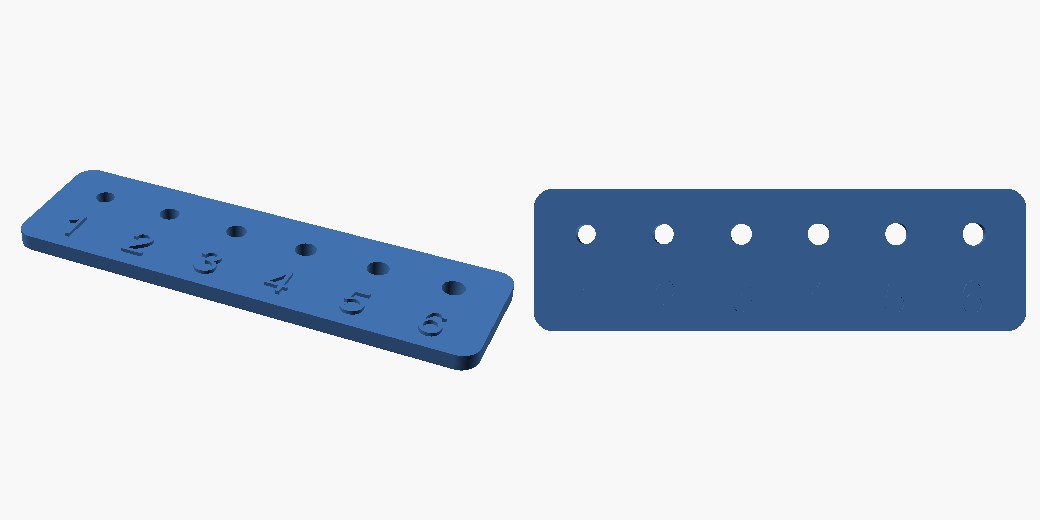
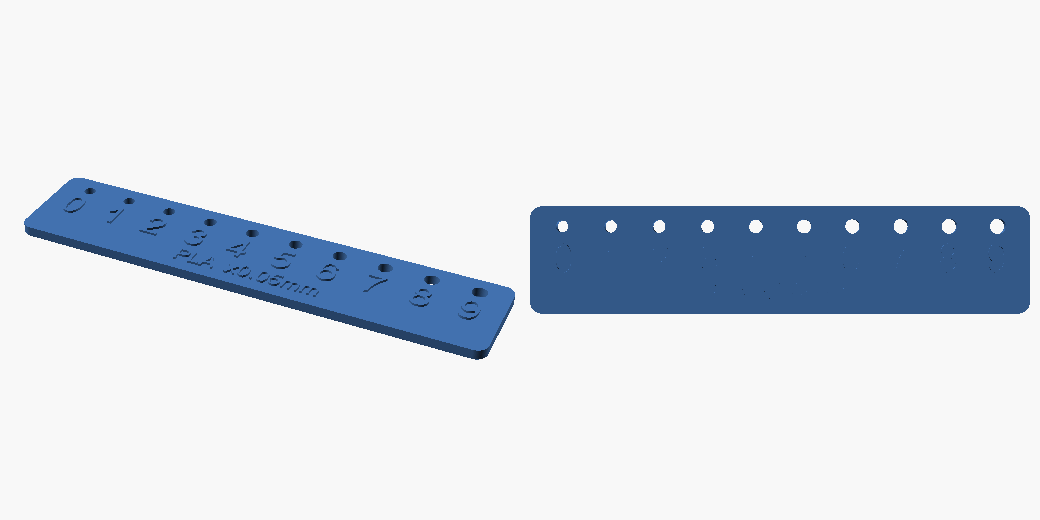
Правки по ревью: ложные утверждения в шпаргалке, диапазон калибровки
Три утверждения в skill/forge3d/references/build123d.md не соответствовали
реальному API и попали бы прямо в генерируемый агентом код:

- export_step возвращает bool, а не бросает RuntimeError. Из-за этого сбой
  записи STEP проходил молча в обеих моделях — теперь проверяются оба экспорта
- import_step отдаёт Solid для одного тела и Compound для нескольких;
  тела достаются через .solids()
- тела, касающиеся ровно гранью, сливаются в одно. Раздельными остаются
  тела с зазором — грабля переписана под то, что действительно проверено

fit_test: диапазон 0.05-0.30 не покрывал free-посадки (0.35 PLA / 0.45 PETG),
теперь 0.00-0.45 десятью отверстиями. font_size это кегль, а не высота глифа —
подписи были 5.4 мм со штрихом тоньше двух периметров, увеличены до 7.3 мм.
Компоновка выведена из параметров, материал подписан на детали и попадает
в имя файла, чтобы гребёнки разных пластиков не перезатирали друг друга.

Ещё: in_stock() задействовал висевшую без дела AVAILABLE, README больше
не утверждает, что TPU не поедет на A1 mini — поедет, AMS lite тут нет.

Changed region(s): [[0.0, 0.3077, 1.0, 0.7077], [0.6769, 0.4308, 0.7385, 0.4923]]

diff --git a/models/fit_test.py b/models/fit_test.py
@@ -1,11 +1,12 @@
 """Калибровочная гребёнка зазоров под винт M3.
 
-Печатается один раз на каждый пластик, чтобы заменить типовые зазоры в forge/spec.py
-на реальные. После печати вставить винт M3 в каждое отверстие и найти два:
-первое, куда винт входит с усилием руки (это snug), и первое, где он ходит
-свободно без люфта (это slip). Номер отверстия подписан рядом.
+Печатается по разу на каждый пластик, чтобы заменить типовые зазоры в forge/spec.py
+на реальные. После печати вставить винт M3 в каждое отверстие и найти два номера:
+где винт входит с усилием руки (это snug) и где ходит свободно без люфта (это slip).
+Полученные зазоры вписать в clearances нужного материала.
 
-Отверстие N имеет зазор STEP*N на сторону, то есть диаметр 3.0 + 2*STEP*N.
+Отверстие N имеет зазор STEP*N на сторону, то есть диаметр SCREW + 2*STEP*N.
+Диапазон покрывает все четыре посадки обоих пластиков: от press (0.00) до free (0.45).
 """
 from pathlib import Path
 
@@ -13,17 +14,34 @@ from build123d import *
 
 OUT = Path(__file__).resolve().parent.parent / "out"
 
+MAT = "PLA"          # печатается отдельно под каждый пластик, имя файла это учитывает
 SCREW = 3.0          # номинальный диаметр винта M3
-COUNT = 6            # количество отверстий
+COUNT = 10           # отверстий: зазоры 0.00 ... 0.45
 STEP = 0.05          # шаг зазора на сторону, мм
 PITCH = 12.0         # расстояние между отверстиями
 PLATE_H = 3.0        # толщина пластины
-MARGIN = 8.0         # поле по краям
-LABEL_H = 7.5        # высота цифры (мельче 7 мм штрих не пропечатывается соплом 0.4)
-LABEL_DEPTH = 0.6    # на сколько цифра выступает
+MARGIN = 8.0         # поле слева и справа
+LABEL_H = 10.0       # кегль цифры; глиф выходит ~7.3 мм, штрих >= 0.8 мм = 2 периметра
+MAT_LABEL_H = 6.0    # кегль подписи материала
+EMBOSS = 0.6         # на сколько выступают надписи (3 слоя по 0.2)
+EDGE = 3.0           # поле сверху и снизу
+ROW_GAP = 2.5        # просвет между рядами
 
+# высота глифа у дефолтного шрифта — примерно 73% кегля, замерено
+GLYPH = 0.73
+HOLE_R_MAX = (SCREW + 2 * STEP * (COUNT - 1)) / 2
+
+# компоновка по вертикали снизу вверх: поле, материал, ряд цифр, ряд отверстий, поле
+mat_h = MAT_LABEL_H * GLYPH
+label_h = LABEL_H * GLYPH
 L = PITCH * (COUNT - 1) + 2 * MARGIN
-W = 22.0
+W = 2 * EDGE + mat_h + ROW_GAP + label_h + ROW_GAP + 2 * HOLE_R_MAX
+
+y_bottom = -W / 2
+y_mat = y_bottom + EDGE + mat_h / 2
+y_label = y_bottom + EDGE + mat_h + ROW_GAP + label_h / 2
+y_hole = W / 2 - EDGE - HOLE_R_MAX
+x0 = -PITCH * (COUNT - 1) / 2
 
 with BuildPart() as part:
     with BuildSketch() as plan:
@@ -32,29 +50,31 @@ with BuildPart() as part:
     extrude(amount=PLATE_H)
 
     # ряд отверстий с нарастающим зазором
-    x0 = -PITCH * (COUNT - 1) / 2
     for i in range(COUNT):
-        gap = STEP * (i + 1)
-        with Locations((x0 + i * PITCH, 4.0)):
-            Hole(radius=(SCREW + 2 * gap) / 2)
+        with Locations((x0 + i * PITCH, y_hole)):
+            Hole(radius=(SCREW + 2 * STEP * i) / 2)
 
-    # подписи: номер отверстия, по нему считается зазор
-    with BuildSketch(Plane.XY.offset(PLATE_H)) as labels:
+    # номер отверстия и подпись материала — выступающими, чтобы читались на любом цвете
+    with BuildSketch(Plane.XY.offset(PLATE_H)):
         for i in range(COUNT):
-            with Locations((x0 + i * PITCH, -6.0)):
-                Text(str(i + 1), font_size=LABEL_H)
-    extrude(amount=LABEL_DEPTH)
+            with Locations((x0 + i * PITCH, y_label)):
+                Text(str(i), font_size=LABEL_H)
+        with Locations((0, y_mat)):
+            Text(f"{MAT}  x0.05mm", font_size=MAT_LABEL_H)
+    extrude(amount=EMBOSS)
 
     # фаска по нижнему контуру против elephant foot
     chamfer(part.faces().sort_by(Axis.Z)[0].edges(), length=0.5)
 
 OUT.mkdir(parents=True, exist_ok=True)
-stl = OUT / "fit_test.stl"
-if not export_stl(part.part, str(stl)):
-    raise RuntimeError(f"не удалось записать {stl}")
-export_step(part.part, str(OUT / "fit_test.step"))
+stem = f"fit_test_{MAT.lower().replace('-', '_')}"
+for path, writer in ((OUT / f"{stem}.stl", export_stl), (OUT / f"{stem}.step", export_step)):
+    if not writer(part.part, str(path)):
+        raise RuntimeError(f"не удалось записать {path}")
 
-print(f"пластина   {L:.0f} x {W:.0f} x {PLATE_H:.0f} мм")
+bb = part.part.bounding_box()
+print(f"материал   {MAT}")
+print(f"пластина   {bb.size.X:.1f} x {bb.size.Y:.1f} x {bb.size.Z:.1f} мм")
+print(f"файл       out/{stem}.stl")
 for i in range(COUNT):
-    gap = STEP * (i + 1)
-    print(f"  {i + 1}: зазор {gap:.2f} на сторону -> отверстие {SCREW + 2 * gap:.2f} мм")
+    print(f"  {i}: зазор {STEP * i:.2f} на сторону -> отверстие {SCREW + 2 * STEP * i:.2f} мм")

diff --git a/models/smoke_test.py b/models/smoke_test.py
@@ -27,10 +27,9 @@ with BuildPart() as part:
     chamfer(part.faces().sort_by(Axis.Z)[-1].edges(), length=0.8)
 
 OUT.mkdir(parents=True, exist_ok=True)
-stl = OUT / "smoke_test.stl"
-if not export_stl(part.part, str(stl)):
-    raise RuntimeError(f"не удалось записать {stl}")
-export_step(part.part, str(OUT / "smoke_test.step"))
+for path, writer in ((OUT / "smoke_test.stl", export_stl), (OUT / "smoke_test.step", export_step)):
+    if not writer(part.part, str(path)):
+        raise RuntimeError(f"не удалось записать {path}")
 
 print(f"материал   {MAT}")
 print(f"отверстие  {hole_d:.2f} мм под винт M{M3:.0f}")

diff --git a/skill/forge3d/references/build123d.md b/skill/forge3d/references/build123d.md
@@ -1,6 +1,6 @@
 # build123d — шпаргалка
 
-Всё ниже проверено на живом коде (build123d 0.11.1, Python 3.13, macOS arm64).
+Всё ниже проверено на живом коде (build123d 0.11.1, Python 3.14, macOS arm64).
 Работать из `~/dev/forge3d`, запускать через `uv run python models/деталь.py`.
 
 ## Скелет файла модели
@@ -24,10 +24,9 @@ with BuildPart() as part:
     Hole(radius=(SCREW + 2 * clearance(MAT, "free")) / 2)
 
 OUT.mkdir(parents=True, exist_ok=True)
-stl = OUT / "деталь.stl"
-if not export_stl(part.part, str(stl)):     # возвращает bool, исключения НЕ бросает
-    raise RuntimeError(f"не удалось записать {stl}")
-export_step(part.part, str(OUT / "деталь.step"))
+for path, writer in ((OUT / "деталь.stl", export_stl), (OUT / "деталь.step", export_step)):
+    if not writer(part.part, str(path)):    # оба возвращают bool, исключений НЕ бросают
+        raise RuntimeError(f"не удалось записать {path}")
 ```
 
 ## Примитивы
@@ -114,13 +113,17 @@ Cylinder(radius=5, height=50, mode=Mode.SUBTRACT)
 
 | Функция | Отдаёт | Годится для |
 |---|---|---|
-| `import_step(path)` | `Solid` | полноценная правка, булевы операции |
+| `import_step(path)` | `Solid` для одного тела, `Compound` для нескольких | полноценная правка, булевы операции |
 | `import_stl(path)` | **`Face`** | только показать; булевы операции НЕ пройдут |
-| `export_step(part, path)` | бросает `RuntimeError` при сбое | обмен, дальнейшие правки |
-| `export_stl(part, path)` | **возвращает `bool`** | печать |
+| `export_step(part, path)` | **`bool`** | обмен, дальнейшие правки |
+| `export_stl(part, path)` | **`bool`** | печать |
 
-`export_stl` при ошибке молча вернёт `False` и ничего не запишет — старый файл останется
-на диске и уйдёт в печать как свежий. Проверять возврат обязательно.
+Тела из импортированного STEP достаются через `.solids()` — так работает и для `Solid`,
+и для `Compound`, не надо гадать что вернулось.
+
+**Оба экспорта возвращают `bool` и не бросают исключений.** При ошибке они молча вернут
+`False` и ничего не запишут — старый файл останется на диске и уйдёт в печать как свежий.
+Проверять возврат обязательно.
 
 ## Правка чужих мешей — trimesh
 
@@ -128,7 +131,9 @@ build123d для STL не годится. Меши правятся через t
 булевы операции работают):
 
 ```python
+import numpy as np
 import trimesh
+
 m = trimesh.load_mesh("out/чужая.stl")
 if isinstance(m, trimesh.Scene):
     m = m.to_mesh()
@@ -152,8 +157,9 @@ m.export("out/правленая.stl")
 
 - `Cone(top_radius=0)` даёт вырожденный треугольник в вершине и негерметичный STL —
   бери `top_radius=0.5` или строй вращением.
-- Два тела, соприкасающихся ровно гранью, остаются двумя телами в STL (`body_count == 2`).
-  Делай перекрытие хотя бы 0.01 мм.
+- Тела, соприкасающиеся ровно гранью, сливаются в одно — проверено, перекрытие для этого
+  не нужно. А вот тела с зазором остаются раздельными и молча уезжают в STL двумя кусками:
+  на это смотри строку «тел в файле» в выводе `check.py`.
 - `from build123d import *` тянет много имён, но `pathlib.Path` не затеняет — проверено.
 - Относительные пути в экспорте считаются от CWD. Всегда строй путь от `__file__`.
 - `part` внутри `with BuildPart() as part` — это билдер; тело достаётся как `part.part`.

diff --git a/README.md b/README.md
@@ -51,13 +51,13 @@ brew install --cask openscad@snapshot
 ## Быстрый старт
 
 ```bash
-uv run python models/fit_test.py                            # -> out/fit_test.stl + .step
-uv run tools/preview.py out/fit_test.stl -o out/fit_test.png
-uv run tools/check.py out/fit_test.stl --material PLA
+uv run python models/fit_test.py                                    # -> out/fit_test_pla.stl + .step
+uv run tools/preview.py out/fit_test_pla.stl -o out/fit_test_pla.png
+uv run tools/check.py out/fit_test_pla.stl --material PLA
 ```
 
-`models/fit_test.py` — калибровочная гребёнка: шесть отверстий под M3 с зазорами
-от 0.05 до 0.30 мм на сторону. С неё стоит начать (см. «Калибровка» ниже).
+`models/fit_test.py` — калибровочная гребёнка: десять отверстий под M3 с зазорами
+от 0.00 до 0.45 мм на сторону. С неё стоит начать (см. «Калибровка» ниже).
 
 ## Настройка под свой принтер
 
@@ -98,6 +98,10 @@ length     = compensate_shrink(150, MAT)      # 150.9 мм с поправкой
 
 Типы посадки: `press` (запрессовка), `snug` (с усилием руки), `slip` (свободно ходит),
 `free` (заведомо с люфтом). Зазор задаётся **на сторону**, отверстие получает удвоенный.
+
+Помимо PLA и PETG в справочнике заведены `PLA-CF`, `ASA` и `TPU` — чтобы `supported()`
+называл причину, когда материал не подходит принтеру (ASA без закрытой камеры, PLA-CF
+без закалённого сопла), а не выдумывал зазор молча.
 
 ## tools/preview.py
 
@@ -160,9 +164,11 @@ ln -s ~/dev/forge3d/skill/forge3d ~/.claude/skills/forge3d
 Зазоры и усадка в `forge/spec.py` — типовые практические значения, а не паспортные
 константы. Они зависят от катушки, влажности и профиля печати.
 
-Чтобы получить свои: напечатать `models/fit_test.py` на каждом пластике, вставить винт M3
+Чтобы получить свои: поменять `MAT` в `models/fit_test.py`, напечатать по гребёнке
+на каждый пластик (материал подписан на детали и попадает в имя файла), вставить винт M3
 в каждое отверстие и найти два номера — где винт входит с усилием руки (`snug`) и где
-ходит свободно без люфта (`slip`). Отверстие N имеет зазор `0.05 * N` на сторону.
+ходит свободно без люфта (`slip`). Отверстие N имеет зазор `0.05 * N` на сторону,
+диапазон 0.00–0.45 покрывает все четыре посадки.
 Полученные числа вписать в `clearances` соответствующего материала.
 
 ## Структура

diff --git a/skill/forge3d/SKILL.md b/skill/forge3d/SKILL.md
@@ -104,8 +104,10 @@ WALL      = wall(3)
 | «поддержки не отодрать» | сменить ориентацию или переделать свес под 45° |
 
 Меняй **константу**, пересобирай, показывай превью, говори что именно поменялось.
-Если правка вскрывает системную ошибку в зазорах — предложи откалибровать
-(гребёнка отверстий с шагом 0.05 мм) и вписать реальные числа в `forge/spec.py`.
+Если правка вскрывает системную ошибку в зазорах — предложи откалибровать:
+`uv run python models/fit_test.py`, напечатать гребёнку, вписать реальные числа
+в `clearances` нужного материала в `forge/spec.py`. Не создавай для этого новый файл —
+`models/fit_test.py` уже есть.
 
 ## Что отдавать пользователю
 

diff --git a/skill/forge3d/references/design-rules.md b/skill/forge3d/references/design-rules.md
@@ -18,8 +18,9 @@
 | 3 | 1.26 мм | обычный корпус, крышка |
 | 4 | 1.68 мм | нагруженные места, крепёж, петли |
 
-`wall(3)` из `forge` считает это само. Абсолютный минимум — 2 периметра: тоньше
-`check.py` пометит проблемой.
+`wall(3)` из `forge` считает это само. Абсолютный минимум — 2 периметра: `check.py`
+пометит проблемой, когда тоньше этого окажется заметная доля поверхности (более 5%).
+Одиночная тонкая кромка фаски порогом не считается.
 
 ## Свесы и мосты
 
